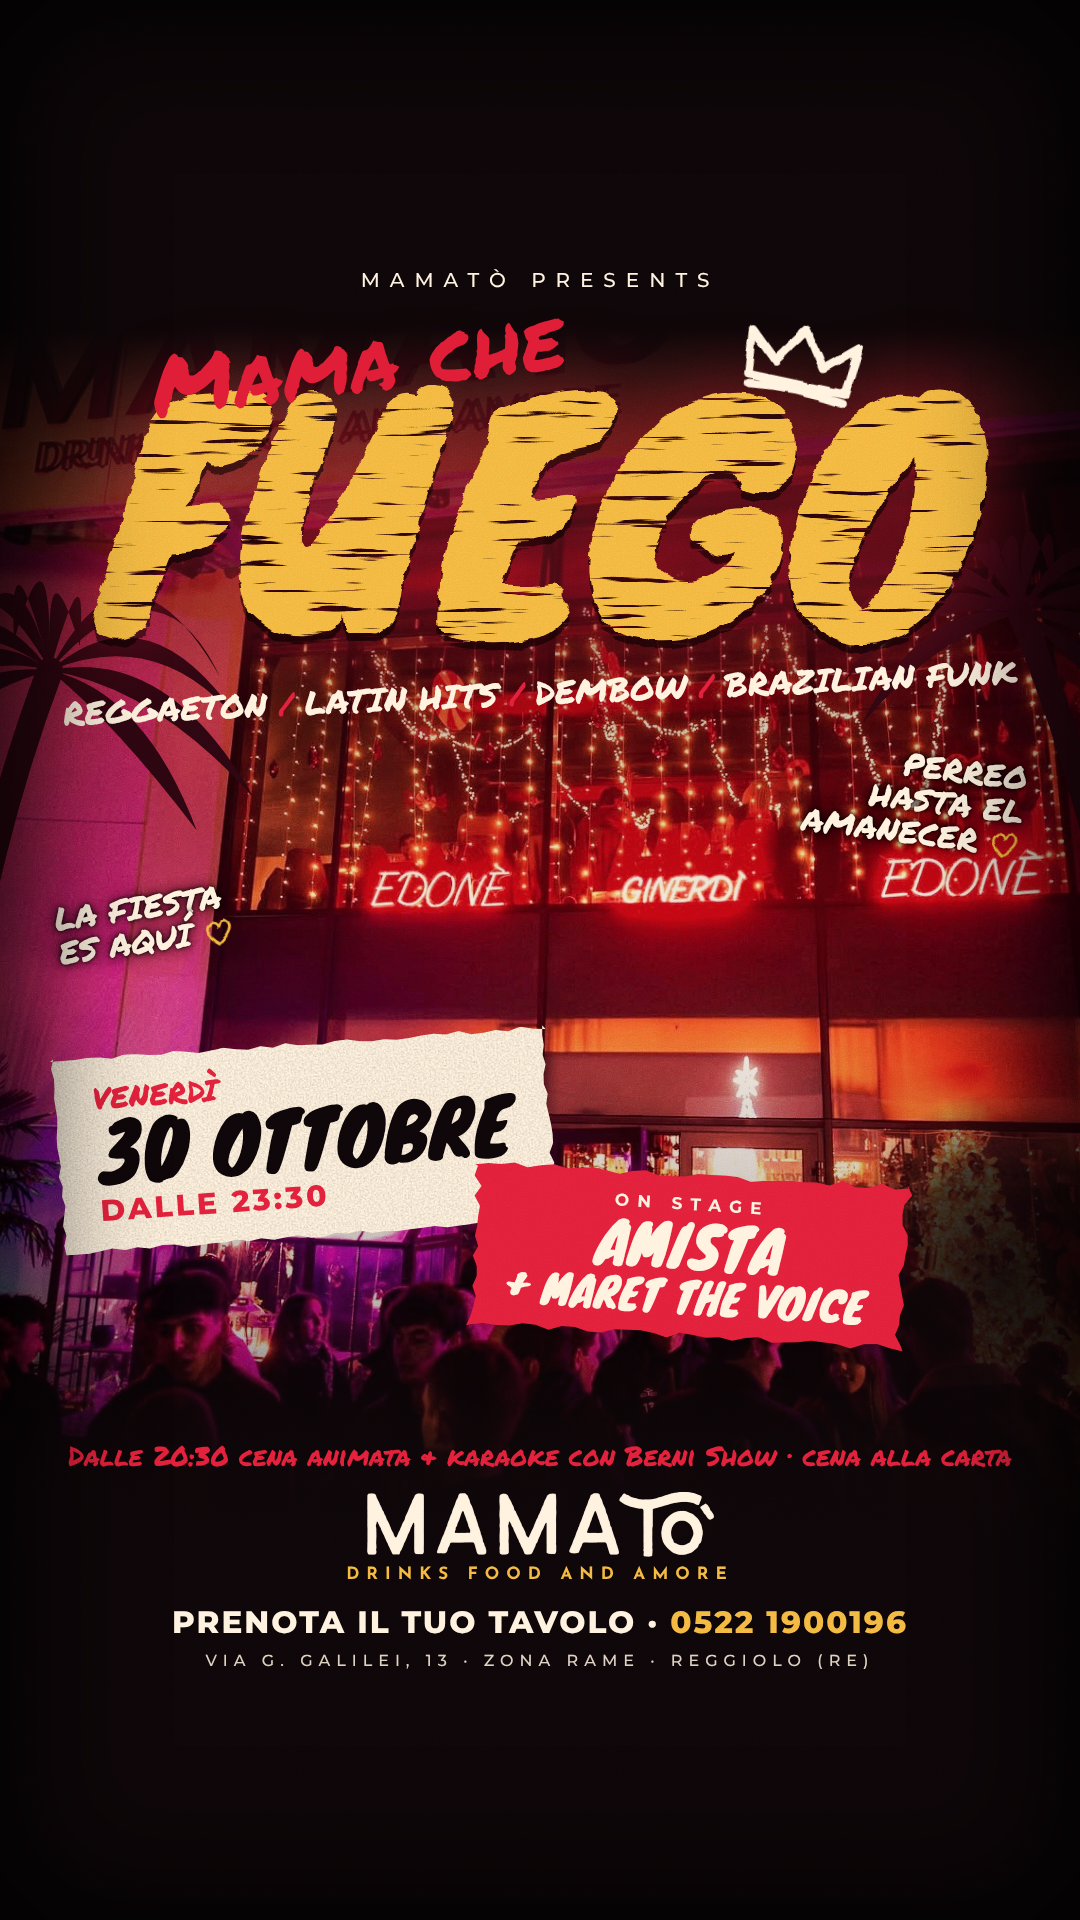
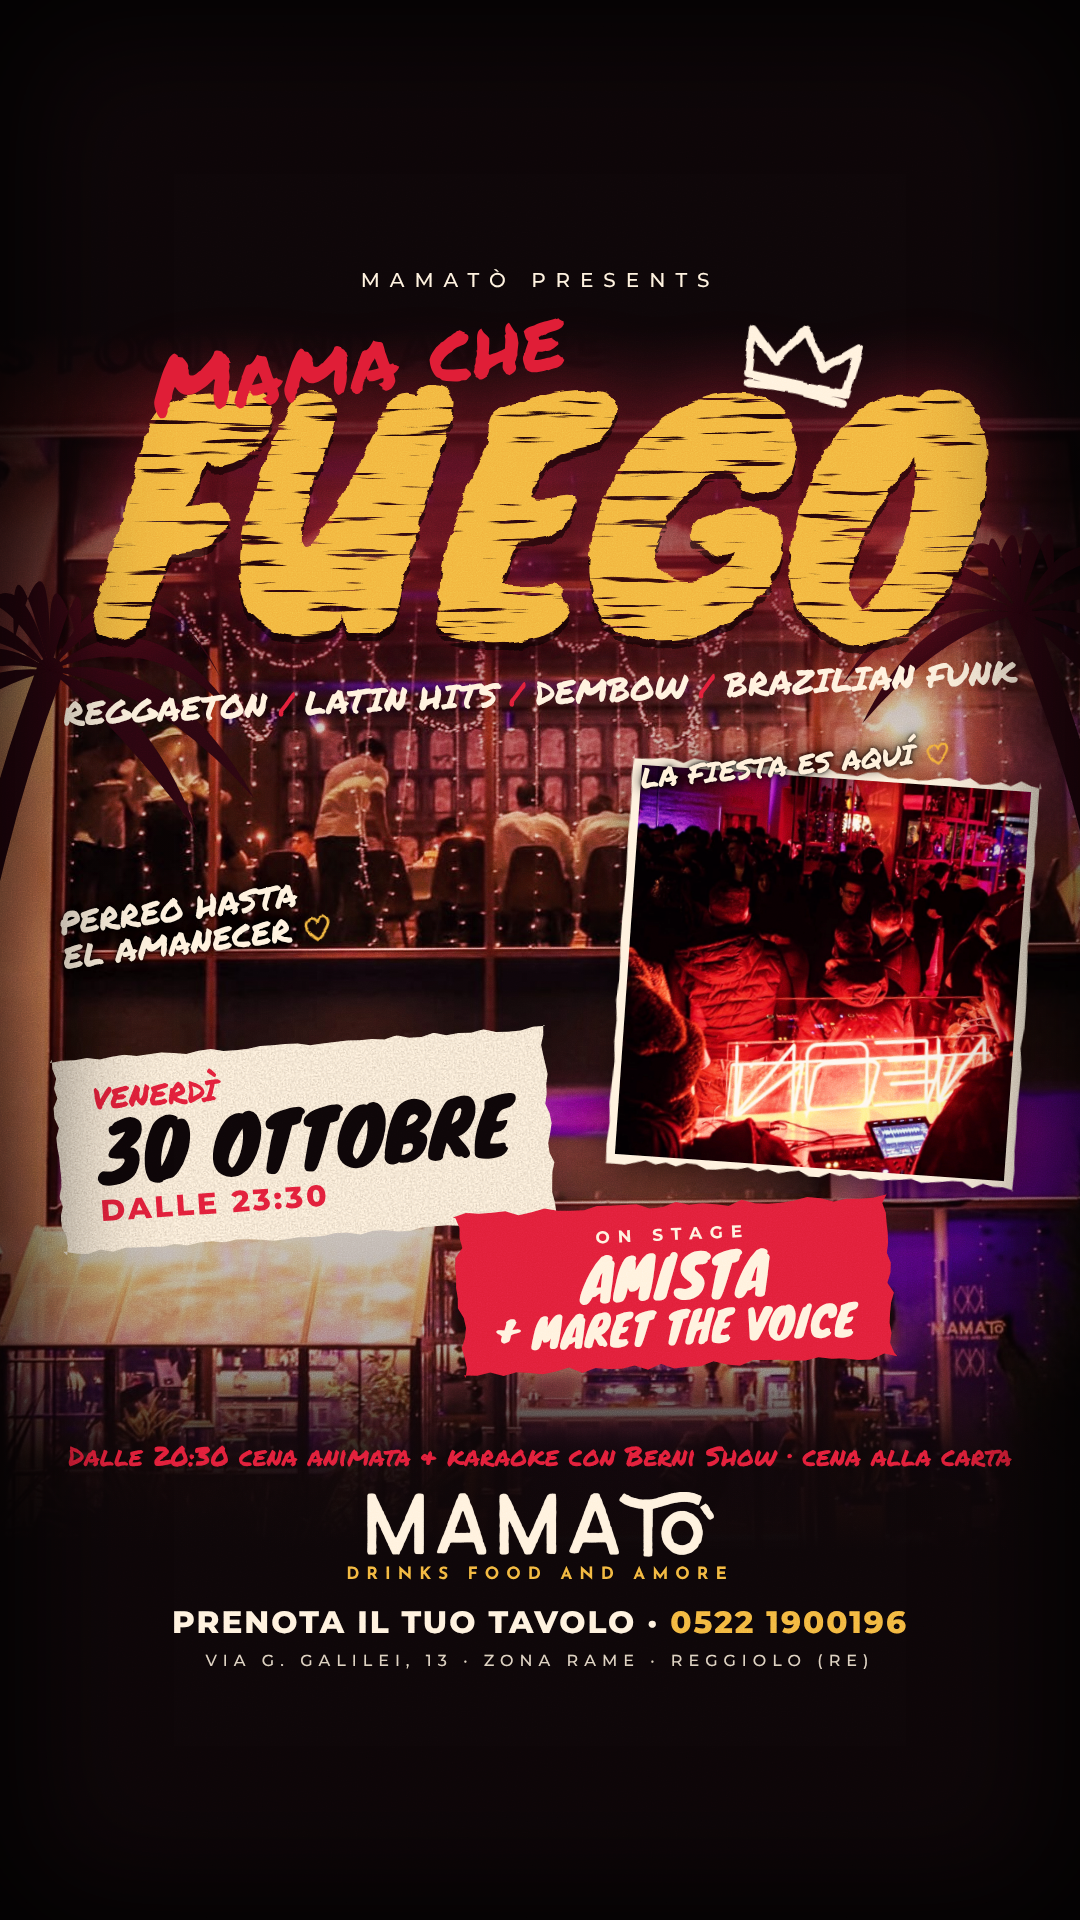
Mamatò posters v3: use real venue photos (new facade, karaoke, dinner, DJ floor)
Claude-Session: https://claude.ai/code/session_015pENQUqGk6XLMfqh9A5pgP

diff --git a/mamato/posters.html b/mamato/posters.html
@@ -146,6 +146,12 @@ function tape(x, y, rot, kicker, main, sub) {
     ${sub ? `<div style="font-family:Knewave;font-size:42px;line-height:1;text-align:center;white-space:nowrap">${sub}</div>` : ''}</div>`;
 }
 
+// foto del locale come ritaglio strappato (collage)
+function snap(src, x, y, w, rot, extra = '') {
+  return `<div class="abs" style="left:${x}px;top:${y}px;width:${w}px;transform:rotate(${rot}deg);filter:drop-shadow(0 18px 26px rgba(0,0,0,.65));${extra}">
+    <div style="background:var(--crema);padding:10px;${tornClip(1.6, 2.5)}"><img src="${src}" style="width:100%;display:block"></div></div>`;
+}
+
 // ---------- composizione ----------
 function build(id, kind) {
   const el = document.getElementById(id), H = el.offsetHeight, story = H > 1400;
@@ -157,8 +163,6 @@ function build(id, kind) {
   if (kind === 'fuego') {
     h += `<img class="abs" src="assets/facciata-fuego.jpg" style="left:-30px;top:${y(-30)}px;width:1140px">`;
     h += `<div class="layer" style="background:linear-gradient(180deg,var(--nero) ${story ? 330 : 110}px,rgba(13,6,8,.25) ${y(470)}px,rgba(13,6,8,0) ${y(640)}px,rgba(13,6,8,.35) ${H - fb - 330}px,rgba(13,6,8,.92) ${H - fb - 210}px,var(--nero) ${H - fb - 120}px)"></div>`;
-    // la foto è di dicembre: si spegne l'albero di Natale a destra dell'ingresso
-    h += `<div class="abs" style="left:840px;top:${y(-30) + 900}px;width:320px;height:380px;background:radial-gradient(closest-side,rgba(13,6,8,.92),rgba(13,6,8,.75) 60%,rgba(13,6,8,0))"></div>`;
     h += palms(H, '#2a0610');
     h += `<div class="abs tracked" style="left:0;right:0;top:${y(48)}px">Mamatò presents</div>`;
     h += `<div class="abs hand" style="left:150px;top:${y(96)}px;font-size:84px;color:var(--rosso);transform:rotate(-7deg);text-transform:none;z-index:2">Mama che</div>`;
@@ -167,10 +171,11 @@ function build(id, kind) {
     h += `<div class="abs" style="left:742px;top:${y(105)}px;transform:rotate(12deg)">${crown(120, 'var(--crema)')}</div>`;
     h += `<div class="abs hand" style="left:0;right:0;top:${y(455)}px;text-align:center;font-size:33px;transform:rotate(-2.5deg);color:var(--crema)">
       Reggaeton <span style="color:var(--rosso)">/</span> Latin hits <span style="color:var(--rosso)">/</span> Dembow <span style="color:var(--rosso)">/</span> Brazilian funk</div>`;
-    h += `<div class="abs hand note" style="left:56px;top:${y(560)}px;transform:rotate(-8deg)">La fiesta<br>es aquí ${heart(30, 'var(--senape)')}</div>`;
-    h += `<div class="abs hand note" style="right:56px;top:${y(528)}px;text-align:right;transform:rotate(7deg)">Perreo<br>hasta el<br>amanecer ${heart(30, 'var(--senape)')}</div>`;
+    h += `<div class="abs hand note" style="left:60px;top:${y(560)}px;transform:rotate(-7deg)">Perreo hasta<br>el amanecer ${heart(30, 'var(--senape)')}</div>`;
+    h += snap('assets/pista-dj.jpg', 618, y(548), 410, 4);
+    h += `<div class="abs hand note" style="left:640px;top:${y(530)}px;transform:rotate(-5deg);font-size:28px;z-index:3">la fiesta es aquí ${heart(26, 'var(--senape)')}</div>`;
     h += dateCard(56, y(712), -4, '23:30');
-    h += tape(470, y(842), 3.5, 'On stage', 'AMISTA', '+ MARET THE VOICE');
+    h += tape(456, y(872), -2.5, 'On stage', 'AMISTA', '+ MARET THE VOICE');
     h += footer(fb, `Dalle 20:30 cena animata &amp; karaoke con Berni Show · cena alla carta`);
   } else {
     h += palms(H, '#2a0a06');
@@ -181,15 +186,14 @@ function build(id, kind) {
     h += `<div class="abs" style="left:880px;top:${y(118)}px;transform:rotate(14deg)">${crown(96, 'var(--senape)')}</div>`;
     h += `<div class="abs hand" style="left:0;right:0;top:${y(372)}px;text-align:center;font-size:34px;transform:rotate(-2deg);color:var(--senape)">
       Se come <span style="color:var(--rosso)">/</span> se canta <span style="color:var(--rosso)">/</span> se goza ${heart(30)}</div>`;
-    // la sala del Mamatò, come ritaglio di carta strappata
-    h += `<div class="abs" style="left:-20px;top:${y(440)}px;width:1120px;transform:rotate(-1.5deg);filter:drop-shadow(0 20px 30px rgba(0,0,0,.6))">
-      <div style="${tornClip(2.5, 2)}"><img src="assets/sala-cena.jpg" style="width:100%;display:block;filter:brightness(1.18) saturate(1.1)"></div></div>`;
-    h += `<div class="abs" style="left:0;right:0;top:${y(440)}px;height:660px;background:linear-gradient(180deg,rgba(13,6,8,0) 55%,rgba(13,6,8,.7))"></div>`;
-    h += `<div class="abs" style="left:800px;top:${y(470)}px;transform:rotate(14deg)">${micDoodle(150)}</div>`;
-    h += `<div class="abs hand" style="left:600px;top:${y(470)}px;font-size:30px;transform:rotate(-6deg);color:var(--crema);text-shadow:0 2px 12px #000">Prima del<br>perreo ${heart(28)}</div>`;
-    h += dateCard(56, y(745), -3, '20:30');
-    h += tape(560, y(875), 4, 'Al microfono', 'BERNI SHOW', '');
-    h += `<div class="abs hand" style="left:596px;top:${y(1000)}px;font-size:28px;color:var(--crema);transform:rotate(4deg)">cena alla carta ${heart(26, 'var(--senape)')}</div>`;
+    // foto vere: il karaoke in sala e la cena che diventa festa
+    h += snap('assets/karaoke-cantante.jpg', 24, y(452), 700, -2.5);
+    h += snap('assets/cena-tovaglioli.jpg', 676, y(440), 380, 5);
+    h += snap('assets/cena-ragazze.jpg', 690, y(690), 360, -4);
+    h += `<div class="abs" style="left:560px;top:${y(452)}px;transform:rotate(-8deg);z-index:2">${micDoodle(64)}</div>`;
+    h += dateCard(40, y(858), -3, '20:30');
+    h += tape(590, y(888), 4, 'Al microfono', 'BERNI SHOW', '');
+    h += `<div class="abs hand note" style="left:640px;top:${y(1000)}px;font-size:26px;transform:rotate(3deg)">cena alla carta ${heart(24, 'var(--senape)')}</div>`;
     h += footer(fb, `Poi dalle 23:30 MAMA CHE FUEGO con Amista + Maret The Voice`);
   }
   h += vignette + grain(H);
